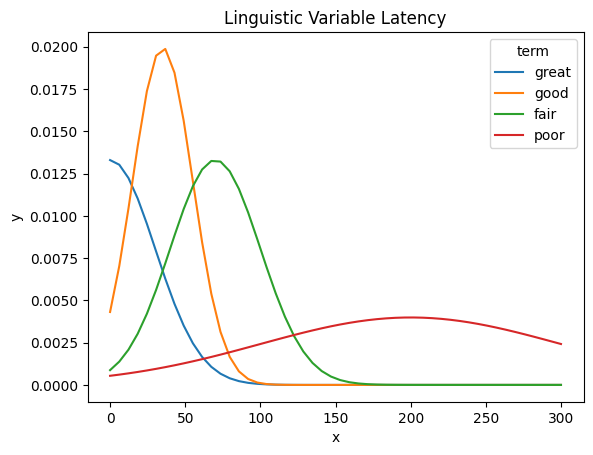
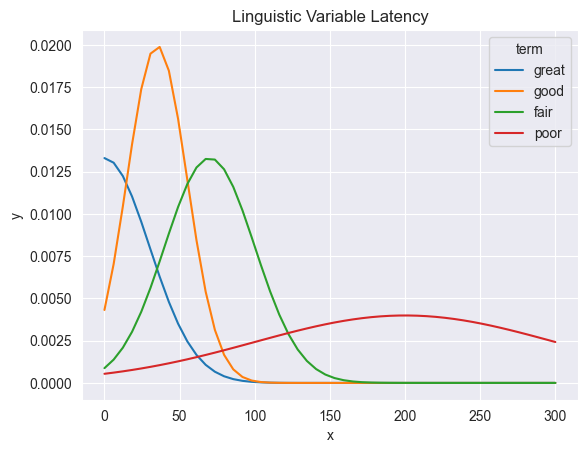
all outputs

diff --git a/report/src/main.tex b/report/src/main.tex
@@ -5,6 +5,10 @@
 % Packages
 \usepackage{amsmath}
 \usepackage{graphicx}
+\usepackage{color}
+\usepackage[table,xcdraw]{xcolor}
+\usepackage{multirow}
+
 
 % set image file paths
 \graphicspath{ {./../../output/mamdani\_triangular/} }
@@ -35,6 +39,20 @@ all the membership functions and linguistic terms
 
 \section{Rules}
 rules
+
+\begin{table}[]
+\begin{tabular}{|
+>{\columncolor[HTML]{9698ED}}c l|cccc|}
+\hline
+\multicolumn{2}{|c|}{\cellcolor[HTML]{FFCC67}{\color[HTML]{333333} }}                                & \multicolumn{4}{c|}{\cellcolor[HTML]{9698ED}Output Throughput}                                                        \\ \cline{3-6}
+\multicolumn{2}{|c|}{\multirow{-2}{*}{\cellcolor[HTML]{FFCC67}{\color[HTML]{333333} CLP Variation}}} & \multicolumn{1}{l|}{low} & \multicolumn{1}{l|}{moderate} & \multicolumn{1}{l|}{high} & \multicolumn{1}{l|}{very high} \\ \hline
+\multicolumn{1}{|c|}{\cellcolor[HTML]{9698ED}}                                     & low             & \multicolumn{1}{c|}{IS}  & \multicolumn{1}{c|}{IS}       & \multicolumn{1}{c|}{I}    & I                              \\ \cline{2-6}
+\multicolumn{1}{|c|}{\cellcolor[HTML]{9698ED}}                                     & moderate        & \multicolumn{1}{c|}{I}   & \multicolumn{1}{c|}{I}        & \multicolumn{1}{c|}{I}    & I                              \\ \cline{2-6}
+\multicolumn{1}{|c|}{\cellcolor[HTML]{9698ED}}                                     & high            & \multicolumn{1}{c|}{M}   & \multicolumn{1}{c|}{M}        & \multicolumn{1}{c|}{D}    & D                              \\ \cline{2-6}
+\multicolumn{1}{|c|}{\multirow{-4}{*}{\cellcolor[HTML]{9698ED}System Load}}        & critical        & \multicolumn{1}{c|}{DS}  & \multicolumn{1}{c|}{DS}       & \multicolumn{1}{c|}{DS}   & DS                             \\ \hline
+\end{tabular}
+\end{table}
+
 
 \section{Results}
 

diff --git a/fuzzy/visualization/fuzzy_system_to_dataframe.py b/fuzzy/visualization/fuzzy_system_to_dataframe.py
@@ -4,8 +4,8 @@ from simpful import FuzzySystem, LinguisticVariable
 from simpful import Triangular_MF, Gaussian_MF
 
 
-def gaussian(x, mu, sig):
-    return 1./(np.sqrt(2.*np.pi)*sig)*np.exp(-np.power((x - mu)/sig, 2.)/2)
+def gaussianmf(x, mu, sig):
+    return np.exp(-np.power((x - mu)/sig, 2.)/2)
 
 
 def fuzzy_system_to_dataframe(FS: FuzzySystem) -> pd.DataFrame:
@@ -67,8 +67,8 @@ def fuzzy_system_to_dataframe(FS: FuzzySystem) -> pd.DataFrame:
                 xmin, xmax = FS._lvs[key]._universe_of_discourse
                 #print(f"{xmax=} | {xmin=}")
 
-                x = np.linspace(xmin, xmax, 50)
-                y = gaussian(x, fs._funpointer._mu, fs._funpointer._sigma)
+                x = np.linspace(xmin, xmax, 150)
+                y = gaussianmf(x, fs._funpointer._mu, fs._funpointer._sigma)
 
                 for x_i, y_i in zip(x, y):
                     vis['x'].append(x_i)
